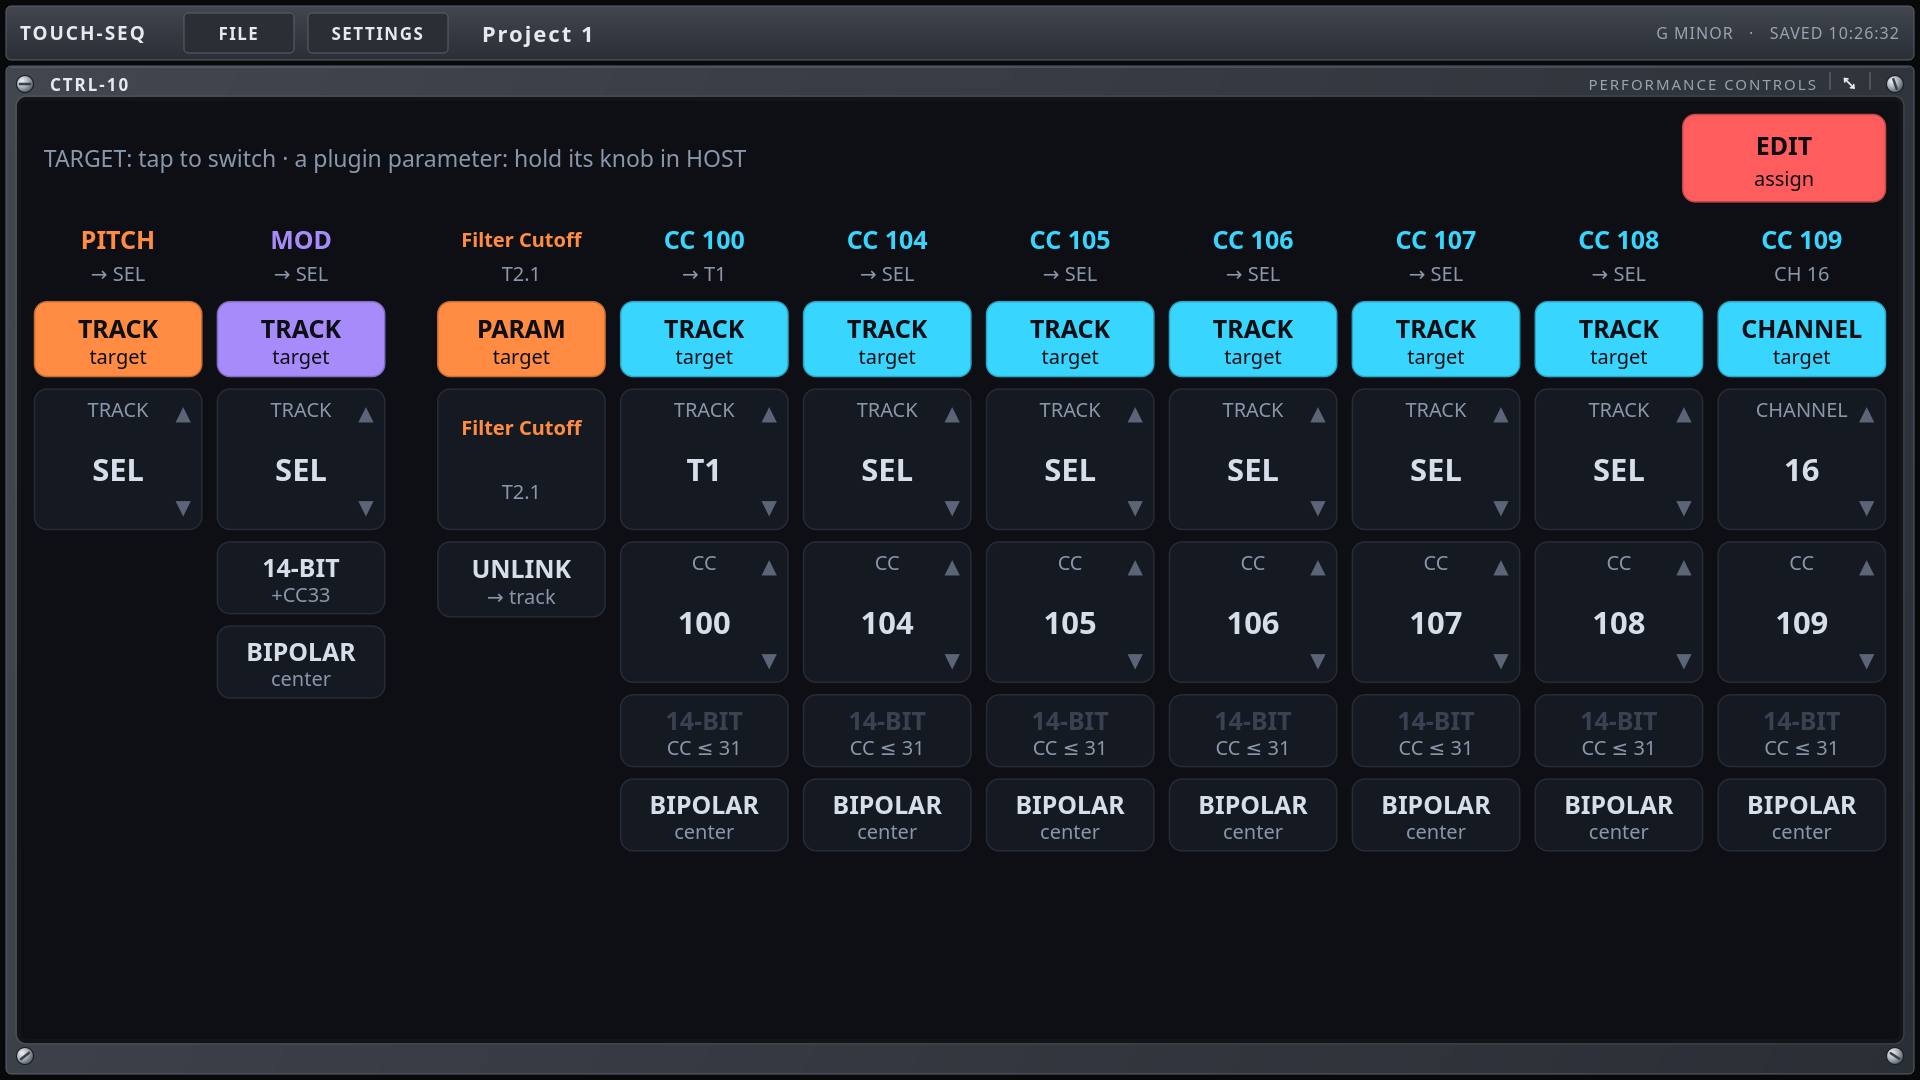
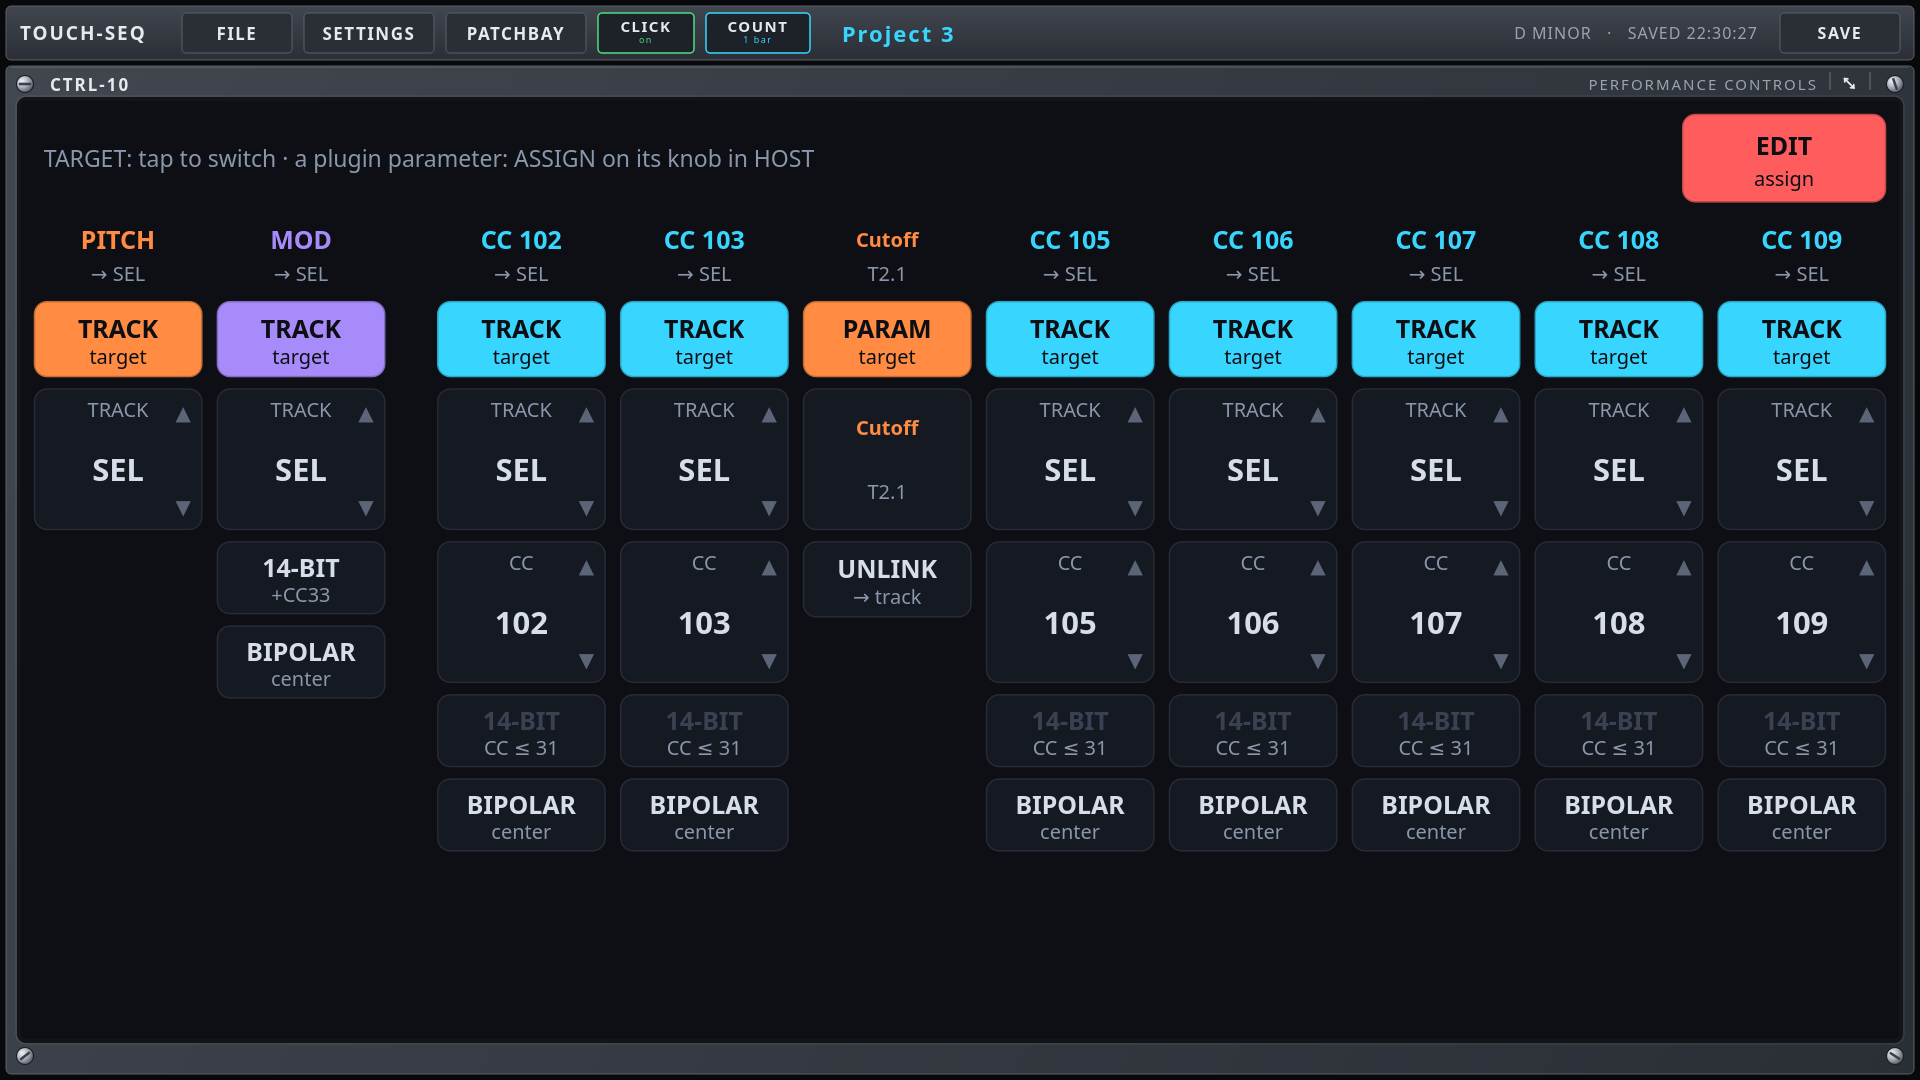
Touch-Seq 0.6.1: fresh screenshots for the new rack
Every screenshot was taken again with the current UI: the top bar with CLICK and COUNT, the MIDI socket in
each MIDI track's EDIT header, the faders' ASSIGN hint and a PARAM fader, and a new shot of the count-in
(CLICK, COUNT 1 bar, the bar counting down while the pattern waits).

diff --git a/touchseq.py b/touchseq.py
@@ -30,7 +30,7 @@ from tseq.rack import *  # noqa: F401,F403
 from tseq.dialogs import *  # noqa: F401,F403
 from tseq.app import *  # noqa: F401,F403
 
-__version__ = "0.6.0"
+__version__ = "0.6.1"
 
 if __name__ == "__main__":
     main(__version__)

diff --git a/README.md b/README.md
@@ -8,7 +8,7 @@ and performance faders — laid out as modules in a modular-synth rack, made for
 
 ![Touch-Seq: faders, plugin host, sequencer and chord pads](docs/screenshots/overview.png)
 
-Version 0.6.0 — early, but already played with.
+Version 0.6.1 — early, but already played with.
 
 ## The rack
 
@@ -50,6 +50,7 @@ screen; everything else keeps running.
   project's key and scale, so the pattern stays in key (a chromatic note keeps its alteration, octaves wrap);
   drum tracks have fixed voices and don't offer it
 
+![The metronome: CLICK and COUNT in the top bar, counting in before the pattern](docs/screenshots/metronome.png)
 ![Piano roll](docs/screenshots/piano-roll.png)
 ![Drum editor](docs/screenshots/drums.png)
 ![Adding a track: drum, melody, external MIDI or audio](docs/screenshots/new-track.png)
@@ -168,8 +169,8 @@ Download the AppImage for your machine from [Releases](https://github.com/marcin
 then:
 
 ```sh
-chmod +x Touch-Seq-0.6.0-x86_64.AppImage
-./Touch-Seq-0.6.0-x86_64.AppImage
+chmod +x Touch-Seq-0.6.1-x86_64.AppImage
+./Touch-Seq-0.6.1-x86_64.AppImage
 ```
 
 It contains Python, Qt (PySide6), Carla and Touch-Seq's own plugins (XYFX, Monitor, EQ and Click). The machine needs:
@@ -222,7 +223,7 @@ Keys (with a keyboard attached): **Space** play/stop, **Esc** closes a dialog/po
 | `audio_out` | `default` (follow PipeWire's default output) or a sink node name — easier set in SETTINGS → AUDIO |
 | `patch` | audio links made in PATCHBAY, as `[[out port, in port], …]` — this machine's cables |
 | `buffer` | audio buffer size in samples for the whole graph while the app runs, `0` = the system's own |
-| `click_lead` | the metronome's own delay in ms, when the machine needs it nudged (left out = the graph's buffer) |
+| `click_lead` | the metronome stream's own delay in ms — only for the fallback without the click plugin |
 
 The metronome is **Touch-Seq Click**, our own plugin (`click/`, CLAP/LV2, like the monitor and the EQ): the
 master's audio goes through it and the engine plays it one note per beat, so the click is rendered inside the
